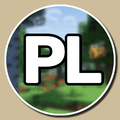
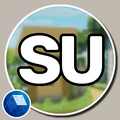
full release

diff --git a/Common/src/main/java/fuzs/stonecuttingupgrade/common/client/gui/screens/inventory/AbstractWidgetsContainerScreen.java b/Common/src/main/java/fuzs/stonecuttingupgrade/common/client/gui/screens/inventory/AbstractWidgetsContainerScreen.java
@@ -1,0 +1,41 @@
+package fuzs.stonecuttingupgrade.common.client.gui.screens.inventory;
+
+import net.minecraft.client.gui.components.events.GuiEventListener;
+import net.minecraft.client.gui.screens.inventory.AbstractContainerScreen;
+import net.minecraft.network.chat.Component;
+import net.minecraft.world.entity.player.Inventory;
+import net.minecraft.world.inventory.AbstractContainerMenu;
+
+/**
+ * A custom {@link AbstractContainerScreen} extension that fully supports adding
+ * {@link net.minecraft.client.gui.components.AbstractWidget} by adding back the missing super calls to
+ * {@link net.minecraft.client.gui.components.events.ContainerEventHandler}.
+ * <p>
+ * TODO this has been moved to Puzzles Lib
+ */
+@Deprecated
+public abstract class AbstractWidgetsContainerScreen<T extends AbstractContainerMenu> extends AbstractContainerScreen<T> {
+
+    public AbstractWidgetsContainerScreen(T menu, Inventory inventory, Component title) {
+        super(menu, inventory, title);
+    }
+
+    public AbstractWidgetsContainerScreen(T menu, Inventory inventory, Component title, int imageWidth, int imageHeight) {
+        super(menu, inventory, title, imageWidth, imageHeight);
+    }
+
+    /**
+     * @see net.minecraft.client.gui.components.events.ContainerEventHandler#mouseScrolled(double, double, double,
+     *         double)
+     */
+    @Override
+    public boolean mouseScrolled(double mouseX, double mouseY, double scrollX, double scrollY) {
+        if (super.mouseScrolled(mouseX, mouseY, scrollX, scrollY)) {
+            return true;
+        }
+
+        return this.getChildAt(mouseX, mouseY).filter((GuiEventListener listener) -> {
+            return listener.mouseScrolled(mouseX, mouseY, scrollX, scrollY);
+        }).isPresent();
+    }
+}

diff --git a/Common/src/main/java/fuzs/stonecuttingupgrade/common/client/gui/components/RecipeImageButton.java b/Common/src/main/java/fuzs/stonecuttingupgrade/common/client/gui/components/RecipeImageButton.java
@@ -3,7 +3,7 @@ package fuzs.stonecuttingupgrade.common.client.gui.components;
 import fuzs.puzzleslib.common.api.client.gui.v2.tooltip.TooltipBuilder;
 import fuzs.puzzleslib.common.api.client.gui.v2.tooltip.TooltipRenderHelper;
 import fuzs.stonecuttingupgrade.common.StonecuttingUpgrade;
-import fuzs.stonecuttingupgrade.common.client.gui.screens.inventory.ModStonecutterScreen;
+import fuzs.stonecuttingupgrade.common.client.gui.screens.inventory.CustomStonecutterScreen;
 import fuzs.stonecuttingupgrade.common.config.ClientConfig;
 import net.minecraft.client.Minecraft;
 import net.minecraft.client.gui.GuiGraphicsExtractor;
@@ -29,9 +29,9 @@ public class RecipeImageButton extends ImageButton {
     public RecipeImageButton(StonecutterMenu menu, int posX, int posY, int recipeIndex, ItemStack recipeOutput) {
         super(posX,
                 posY,
-                ModStonecutterScreen.RECIPES_IMAGE_SIZE_WIDTH,
-                ModStonecutterScreen.RECIPES_IMAGE_SIZE_HEIGHT,
-                ModStonecutterScreen.RECIPE_SPRITES,
+                CustomStonecutterScreen.RECIPES_IMAGE_SIZE_WIDTH,
+                CustomStonecutterScreen.RECIPES_IMAGE_SIZE_HEIGHT,
+                CustomStonecutterScreen.RECIPE_SPRITES,
                 Function.identity()::apply);
         this.menu = menu;
         this.recipeIndex = recipeIndex;

diff --git a/Common/src/main/java/fuzs/stonecuttingupgrade/common/client/StonecuttingUpgradeClient.java b/Common/src/main/java/fuzs/stonecuttingupgrade/common/client/StonecuttingUpgradeClient.java
@@ -1,6 +1,6 @@
 package fuzs.stonecuttingupgrade.common.client;
 
-import fuzs.stonecuttingupgrade.common.client.gui.screens.inventory.ModStonecutterScreen;
+import fuzs.stonecuttingupgrade.common.client.gui.screens.inventory.CustomStonecutterScreen;
 import fuzs.puzzleslib.common.api.client.core.v1.ClientModConstructor;
 import fuzs.puzzleslib.common.api.client.event.v1.gui.ScreenOpeningCallback;
 import fuzs.puzzleslib.common.api.event.v1.core.EventResultHolder;
@@ -21,7 +21,7 @@ public class StonecuttingUpgradeClient implements ClientModConstructor {
 
     private static EventResultHolder<Screen> onScreenOpening(@Nullable Screen oldScreen, @Nullable Screen newScreen) {
         if (newScreen instanceof StonecutterScreen screen) {
-            return EventResultHolder.interrupt(new ModStonecutterScreen(screen.getMenu(),
+            return EventResultHolder.interrupt(new CustomStonecutterScreen(screen.getMenu(),
                     screen.minecraft.player.getInventory(),
                     screen.getTitle()));
         } else {